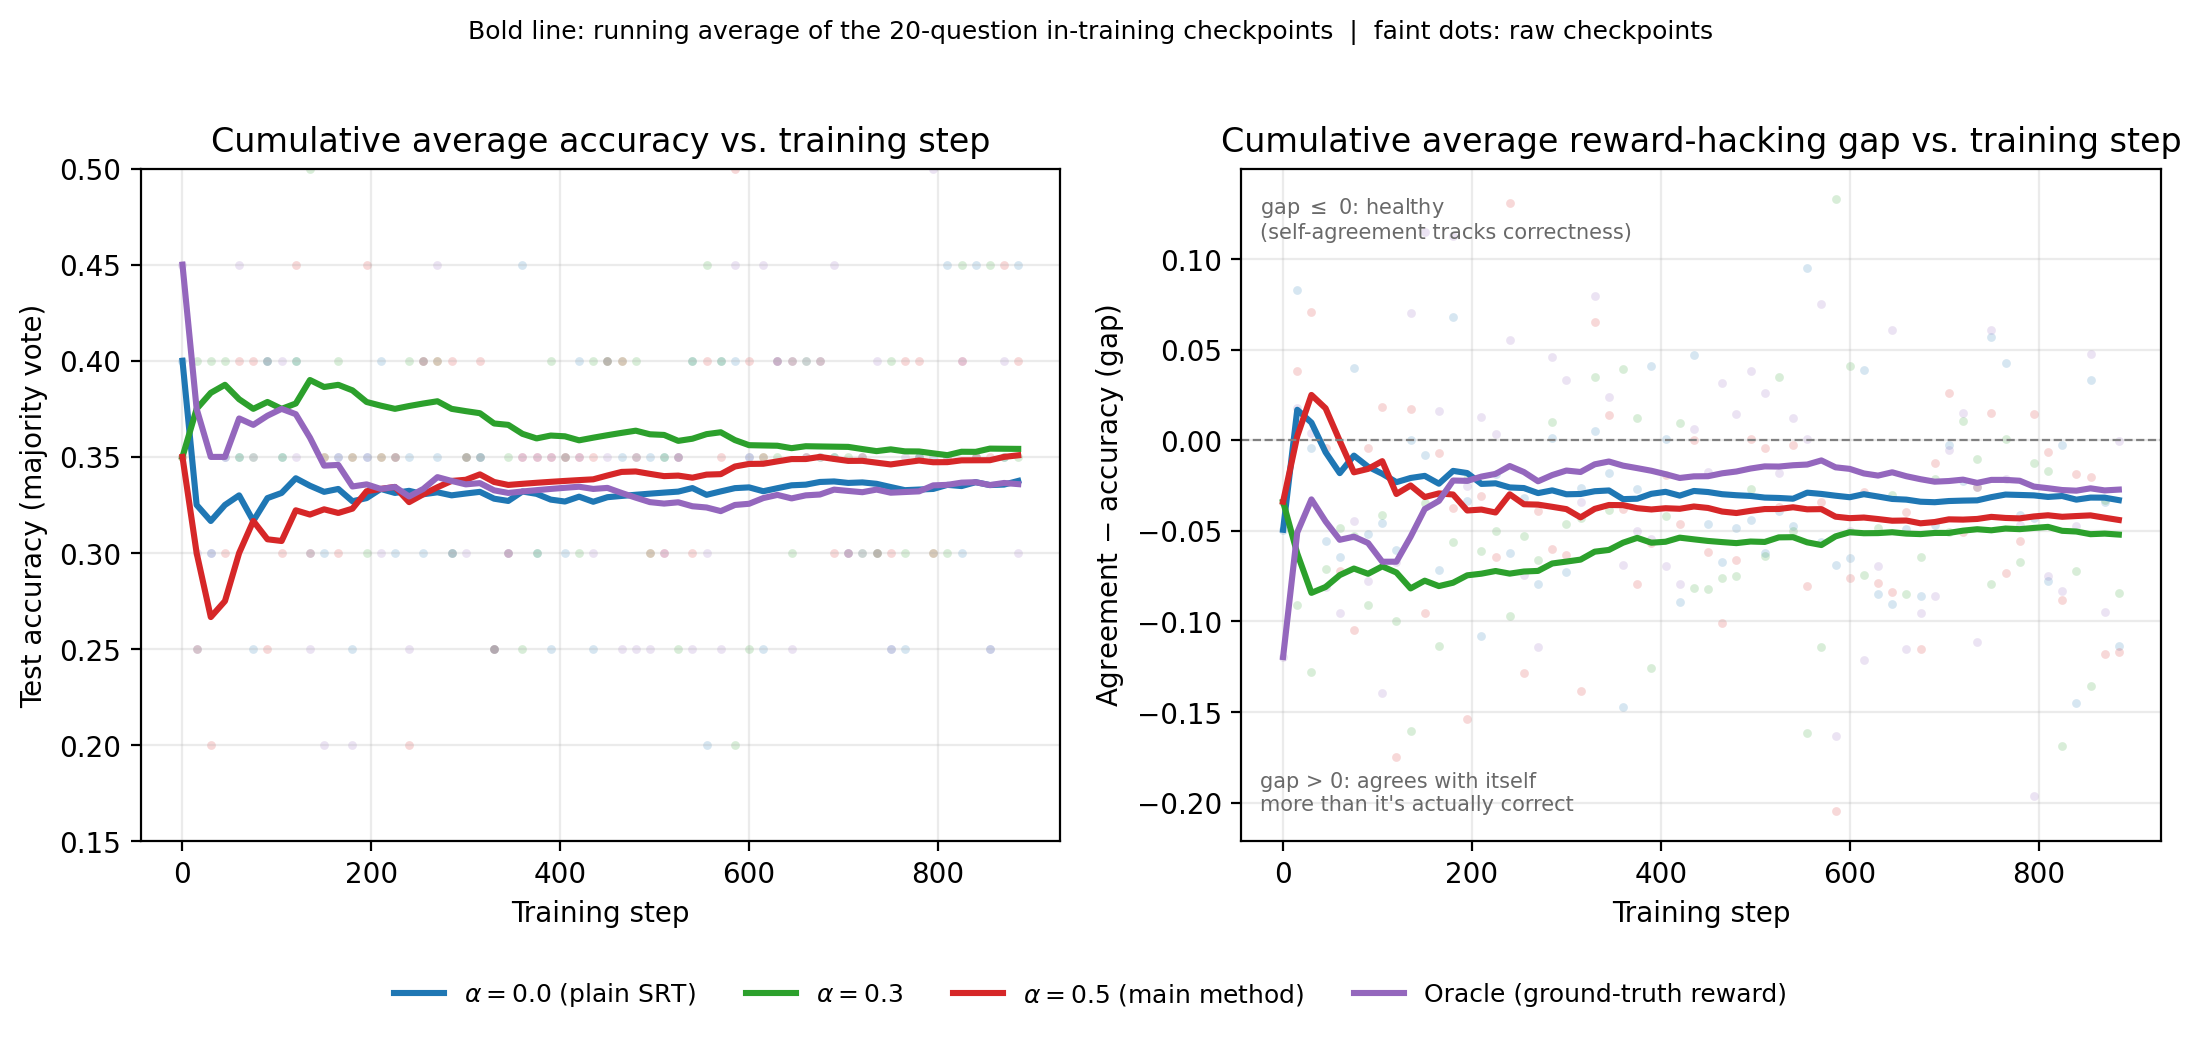
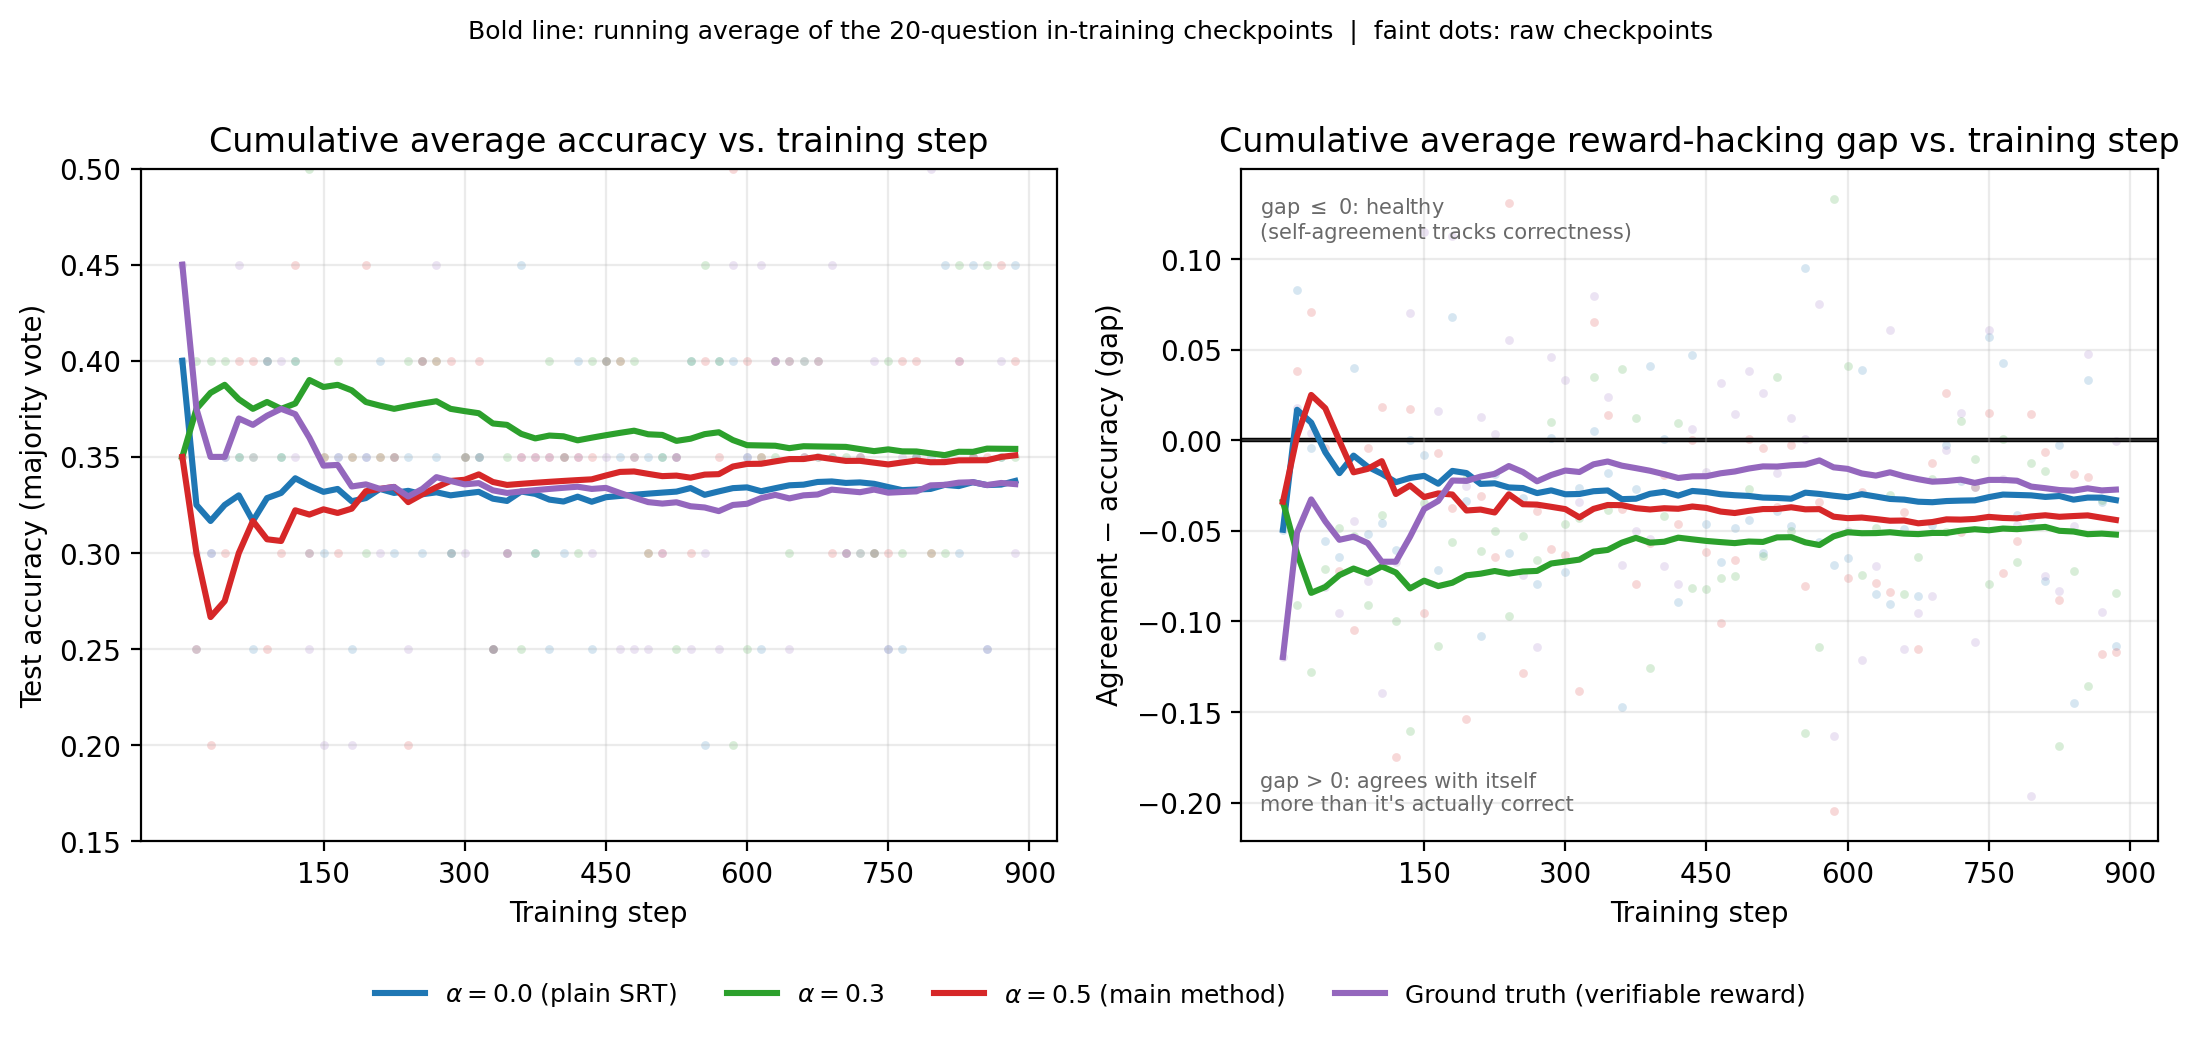
Report with Yuval's fixes

diff --git a/overleaf/main.tex b/overleaf/main.tex
@@ -77,15 +77,15 @@ to test whether it delays or reduces this collapse. We implement a
 lightweight, dependency-minimal replication of SRT's RLOO training loop on
 Qwen2.5-Math-1.5B over the DAPO dataset \citep{yu2025dapo}, and compare four
 reward conditions -- plain SRT ($\alpha{=}0$), two entropy-bonus strengths
-($\alpha{=}0.3$, $\alpha{=}0.5$), and a ground-truth oracle ceiling -- each
+($\alpha{=}0.3$, $\alpha{=}0.5$), and a ground-truth ceiling condition -- each
 trained for 900 steps with periodic held-out evaluation. On the final,
-low-noise 100-question evaluation, plain SRT's accuracy fell and its
-agreement-accuracy gap grew substantially relative to an earlier, shorter
-feasibility run, consistent with the reward-hacking collapse the original
-paper describes; a moderate entropy bonus ($\alpha{=}0.3$) achieved the best
-result of the three trained conditions (highest accuracy, smallest gap),
-while a stronger bonus ($\alpha{=}0.5$) underperformed both alternatives --
-a non-monotonic effect of $\alpha$. Surprisingly, the ground-truth oracle
+low-noise 100-question evaluation, plain SRT finished training with a
+clearly positive agreement-accuracy gap ($+0.043$), the reward-hacking
+signature the original paper describes; a moderate entropy bonus
+($\alpha{=}0.3$) achieved the best result of the three trained conditions
+(highest accuracy, smallest gap), while a stronger bonus ($\alpha{=}0.5$)
+underperformed both alternatives -- a non-monotonic effect of $\alpha$.
+Surprisingly, the ground-truth
 condition did not behave like a ceiling at this training budget: its final
 accuracy ($0.25$) was on par with or below all three label-free conditions,
 suggesting that reward \emph{density} (how often a rollout receives useful
@@ -140,7 +140,7 @@ maximum-entropy RL methods such as Soft Actor-Critic
 \citep{haarnoja2018sac} -- applied specifically to SRT's self-consistency
 collapse, which the original paper does not attempt to address. We implement
 this as a lightweight, from-scratch RLOO \citep{kool2019buy,ahmadian2024back}
-training loop, add a ground-truth oracle condition as an upper-bound
+training loop, add a ground-truth condition as an upper-bound
 reference the original paper does not report, and run a controlled
 comparison across four reward conditions at 900 training steps each --
 chosen because reward hacking in the original paper's own experiments only
@@ -177,6 +177,20 @@ A_i = R_i - \frac{1}{k-1}\sum_{j\neq i} R_j ,
 \]
 avoiding the need to train a separate value network (unlike PPO) while
 remaining unbiased. SRT and our replication both use RLOO.
+
+\textbf{Why sample several rollouts instead of one.} With $k{=}1$, RLOO has
+no other rollouts to compare against and collapses to a single raw reward
+with no baseline: every sequence is reinforced or discouraged purely on the
+sign of its own reward, a high-variance signal that says nothing about
+whether the model could have done better on that same prompt. Sampling
+$k>1$ rollouts turns each one into a \emph{relative} comparison against its
+peers, which sharpens the gradient (a rollout is only reinforced if it beats
+the average of the others, not merely if it is ``good'' in isolation) and
+removes the need for a learned critic. Multiple rollouts per prompt are also
+a hard requirement for SRT specifically, independent of RLOO: the
+majority-vote reward is only definable when there is a crowd to agree or
+disagree with, so with $k{=}1$ there is no self-consistency signal to train
+on at all.
 
 \subsection{Self-consistency and Self-Rewarded Training}
 
@@ -296,9 +310,9 @@ contribution is diagnosing that SRT's particular training dynamic is exactly
 the kind of premature-convergence failure this class of regularizer was
 designed for, and testing that empirically.
 
-\subsection{Oracle ceiling}
+\subsection{Ground-truth ceiling}
 
-We additionally implement a \textbf{ground-truth oracle} condition,
+We additionally implement a \textbf{ground-truth} condition,
 $R_i = \mathbf{1}[a_i = \text{ground truth}]$, with no majority vote and no
 entropy bonus at all -- the classic verifiable-reward RL setup used when a
 real answer key \emph{is} available. The original SRT paper does not report
@@ -336,11 +350,11 @@ We use the \textbf{DAPO} dataset curation \citep{yu2025dapo}, specifically
 the unlabeled variant \texttt{ftajwar/deduplicated\_dapo\_dataset} used by
 the original SRT codebase. During training, the visible ``ground truth''
 field is a placeholder (\texttt{LABEL\_BY\_SELF\_CONSISTENCY}) by design --
-no real answer is available to the training loop except in the oracle
+no real answer is available to the training loop except in the ground-truth
 condition, where the real answer is read from a separate,
 deliberately-segregated field
 (\texttt{reward\_model.solution\_hidden\_during\_training}) that is never
-exposed to the non-oracle reward computation. Evaluation uses a disjoint,
+exposed to reward computation in the other conditions. Evaluation uses a disjoint,
 held-out 100-question test set (fixed \texttt{random\_state=42}); a nested,
 fixed 20-question subset of it is used for periodic during-training checks
 so that trend curves compare the same questions at every checkpoint, and the
@@ -357,7 +371,7 @@ GPU for the longer runs reported here).
 \subsection{Training loop}
 
 We implement SRT's algorithm directly (RLOO advantage, majority-vote /
-entropy-bonus / oracle rewards) in a single, dependency-minimal script rather
+entropy-bonus / ground-truth rewards) in a single, dependency-minimal script rather
 than using the original paper's full \texttt{verl}+vLLM+FSDP training stack,
 which pulls in heavyweight distributed-training dependencies not needed at
 our scale. Answer extraction (\verb|\boxed{...}| parsing) and
@@ -370,7 +384,7 @@ original codebase, keeping our numbers comparable to it.
 Each training step: sample one training prompt; generate $k{=}8$ rollouts at
 temperature $1.0$ (rollouts that are truncated before an end-of-sequence
 token are automatically regenerated once at a longer token budget); extract
-and score answers; compute rewards per Eq.~\ref{eq:reward} (or the oracle
+and score answers; compute rewards per Eq.~\ref{eq:reward} (or the ground-truth
 reward); compute RLOO advantages; and take one SGD step (learning rate
 $10^{-6}$, momentum $0.9$, gradient norm clipped to $1.0$) using gradients
 accumulated one rollout at a time to fit the vocabulary-projection forward
@@ -386,7 +400,7 @@ crash-resume, which mattered in practice on a shared/rented GPU.
 
 We compare four conditions, each trained for \textbf{900 steps}: $\alpha{=}0.0$
 (plain SRT, the paper's method), $\alpha{=}0.3$, $\alpha{=}0.5$ (our primary
-proposed configuration), and the ground-truth oracle. Held-out evaluation
+proposed configuration), and the ground-truth condition. Held-out evaluation
 (20-question subset) runs every 15 steps to produce accuracy/gap/entropy
 trend curves; a single final evaluation over all 100 test questions is run
 at the end of each condition's 900 steps for the headline comparison number.
@@ -461,7 +475,7 @@ the model scale used in our main experiment.
 \subsection{Main training comparison (900 steps)}
 
 All four conditions -- $\alpha{=}0.0$, $\alpha{=}0.3$, $\alpha{=}0.5$, and
-the ground-truth oracle -- have completed their full 900-step runs, each
+the ground-truth condition -- have completed their full 900-step runs, each
 with a final evaluation over all 100 held-out test questions.
 
 \begin{table}[h]
@@ -476,7 +490,7 @@ with a final evaluation over all 100 held-out test questions.
     $\alpha = 0.0$ (plain SRT)     & 0.26          & 0.30          & $+0.043$ \\
     $\alpha = 0.3$                  & \textbf{0.30} & \textbf{0.32} & \textbf{$+0.016$} \\
     $\alpha = 0.5$ (main method)    & 0.24          & 0.29          & $+0.051$ \\
-    Oracle (ground-truth reward)    & 0.25          & 0.30          & $+0.048$ \\
+    Ground truth (verifiable reward) & 0.25          & 0.30          & $+0.048$ \\
     \bottomrule
   \end{tabular}
 \end{table}
@@ -486,7 +500,7 @@ with a final evaluation over all 100 held-out test questions.
   \includegraphics[width=0.98\linewidth]{results_curves.png}
   \caption{Cumulative (running) average of test accuracy (left) and
   agreement-accuracy gap (right) vs.\ training step, for all four
-  conditions, including the oracle. Each bold line is the running mean of
+  conditions, including the ground-truth condition. Each bold line is the running mean of
   that condition's 20-question in-training checkpoints (every 15 steps,
   fixed seed) from step 0 up to the current step; faint dots are the raw,
   unsmoothed checkpoints, shown to make the per-checkpoint sampling noise
@@ -544,16 +558,16 @@ conditions suggest an inverted-U relationship between $\alpha$ and final
 performance rather than a monotonically increasing benefit of larger
 bonuses.
 
-\textbf{Third, the oracle condition did not behave like a ceiling at this
+\textbf{Third, the ground-truth condition did not behave like a ceiling at this
 training budget -- it was, if anything, one of the weaker conditions.}
 Trained directly on ground-truth reward ($R_i = \mathbf{1}[a_i =
-\text{ground truth}]$, no majority vote involved at all), the oracle
+\text{ground truth}]$, no majority vote involved at all), this condition
 reached only $0.25$ final accuracy: below $\alpha{=}0.3$, and statistically
 indistinguishable from plain SRT and $\alpha{=}0.5$ given the
 $\pm0.04$--$0.045$ noise floor discussed in Section~\ref{sec:discussion}.
-This is not what Section~\ref{sec:contribution} predicted the oracle would
-show. A plausible explanation is reward \emph{sparsity}: early in training,
-the base model is rarely exactly correct, so the oracle's binary
+This is not what Section~\ref{sec:contribution} predicted the ground-truth
+condition would show. A plausible explanation is reward \emph{sparsity}: early in training,
+the base model is rarely exactly correct, so this condition's binary
 $0$/$1$ reward is $0$ for nearly every rollout, giving RLOO very little
 useful gradient signal per step. The majority-vote reward, by contrast, is
 $1$ for roughly half of all $8$ rollouts \emph{by construction} (whichever
@@ -561,7 +575,7 @@ answer happens to be most common), regardless of whether that answer is
 correct -- a denser, if noisier, training signal. Within a fixed, modest
 900-step budget, that density advantage may matter more than the majority
 vote's lack of correctness guarantee. A second, equally important
-observation: the oracle's own gap ($+0.048$) is not near zero, even though
+observation: the ground-truth condition's own gap ($+0.048$) is not near zero, even though
 its reward never references the majority vote at all. Since \emph{gap} was
 introduced (Section~\ref{sec:background}) specifically as a majority-vote
 reward-hacking signature, a positive gap under ground-truth training
@@ -593,14 +607,14 @@ $\pm0.04$--$0.045$ -- comparable in size to the differences between
 conditions. The pattern is directionally consistent with $H_0$ and
 (partially) $H_1$, but we cannot rule out that a repeated run with a
 different seed would narrow or reverse the ordering between $\alpha{=}0.3$
-and $\alpha{=}0.0$/$0.5$. We had hoped the oracle condition would help
+and $\alpha{=}0.0$/$0.5$. We had hoped the ground-truth condition would help
 settle this by providing a clean upper bound to calibrate against; instead
 it complicated the picture, landing among the weaker conditions rather than
 above all of them (Section~\ref{sec:results}). That result is useful in its
 own right -- it argues against reading \emph{any} single 900-step,
-single-seed run (oracle included) as a precise, trustworthy point estimate
+single-seed run (ground truth included) as a precise, trustworthy point estimate
 at this model scale -- but it means multi-seed replication (see Limitations
-below), not the oracle alone, is what would actually be needed to settle
+below), not the ground-truth condition alone, is what would actually be needed to settle
 the ordering with confidence.
 
 \subsection{Limitations}
@@ -717,7 +731,7 @@ Qiying Yu, Zheng Zhang, Ruofei Zhu, et al.
     Justification: The abstract and introduction state the observed pattern
     (plain SRT ending training with a clearly positive gap; a moderate
     entropy bonus performing best of the four conditions; a stronger bonus
-    underperforming; the oracle unexpectedly failing to behave as a ceiling)
+    underperforming; the ground-truth condition unexpectedly failing to behave as a ceiling)
     and match Section~\ref{sec:results}. All
     four conditions have completed 900-step training as of this draft; the
     single-seed caveat on how confidently these claims generalize is stated
@@ -851,9 +865,8 @@ Qiying Yu, Zheng Zhang, Ruofei Zhu, et al.
     reviewed, tested, and edited by the authors, who take full
     responsibility for correctness of the final method, results, and
     claims. The LLM was not used to generate or alter any experimental
-    result.
+result.
 
 \end{enumerate}
 
 \end{document}
-